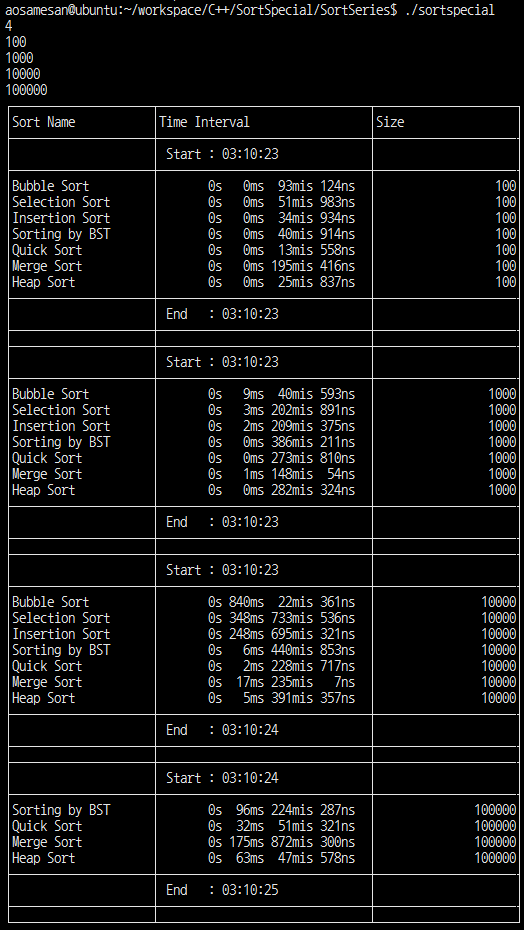
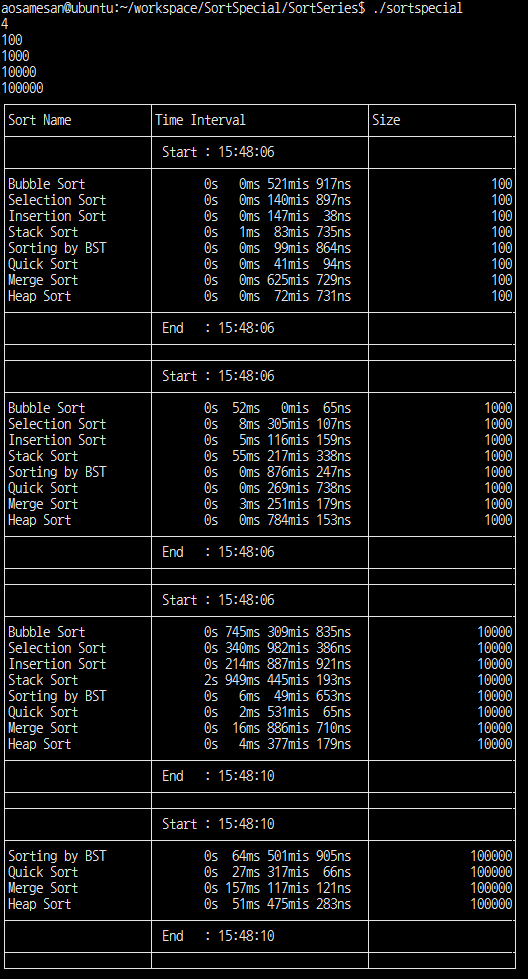
Add Stack Sort

Changed region(s): [[0.0, 0.0, 1.0, 0.9978]]

diff --git a/SortSeries/sort.h b/SortSeries/sort.h
@@ -6,6 +6,7 @@
 #include<chrono>
 #include<cstdlib>
 #include<cstring>
+#include<stack>
 #include"bst.h"
 #define BIGNUMBER 40000
 #define UNABLEQUAD 30000
@@ -242,6 +243,7 @@ namespace Sorts{
 		"Bubble Sort",
 		"Selection Sort",
 		"Insertion Sort",
+		"Stack Sort",
 		"Sorting by BST",
 		"Quick Sort",
 		"Merge Sort",
@@ -251,12 +253,13 @@ namespace Sorts{
 	const unsigned short BUBBLE_SORT = 0;
 	const unsigned short SELECTION_SORT = 1;
 	const unsigned short INSERTION_SORT = 2;
-	const unsigned short SORT_BY_BST = 3;
-	const unsigned short QUICK_SORT = 4;
-	const unsigned short MERGE_SORT = 5;
-	const unsigned short HEAP_SORT = 6;
+	const unsigned short STACK_SORT = 3;
+	const unsigned short SORT_BY_BST = 4;
+	const unsigned short QUICK_SORT = 5;
+	const unsigned short MERGE_SORT = 6;
+	const unsigned short HEAP_SORT = 7;
 
-	const unsigned int NUM_OF_SORTS = 7;
+	const unsigned int NUM_OF_SORTS = 8;
 
 
 	auto isSorted = [](vector<int>& vec) -> bool {
@@ -475,6 +478,40 @@ namespace Sorts{
 			siftDown(vec, 0, end);
 		}
 	};
+	auto stackSort = [](vector<int> vec, int size) -> bool{
+		stack<int> sortedStack;
+		stack<int> tempStack;
+		
+		for(int i = 0; i < size; i++){
+			if(sortedStack.empty()){
+				sortedStack.push(vec[i]);
+			} else {
+				int temp;
+				while(!sortedStack.empty()){
+					if((temp = sortedStack.top()) > vec[i]){
+						break;
+					} else {
+						tempStack.push(temp);
+						sortedStack.pop();
+					}
+				}
+				sortedStack.push(vec[i]);
+				while(!tempStack.empty()){
+					sortedStack.push(tempStack.top());
+					tempStack.pop();
+				}
+			}
+		}
+
+		int j = 0;
+		while(!sortedStack.empty()){
+			vec[(j++)] = sortedStack.top();
+			sortedStack.pop();
+		}
+
+		return isSorted(vec);
+	};
+
 
 	template<typename T>
 	long long Sorter(vector<int>& vec, T sortFunc){
@@ -529,7 +566,7 @@ namespace Sorts{
 			long long lap;
 
 			for (int i = 0; i < NUM_OF_SORTS; i++){
-				if (((i == BUBBLE_SORT || i == SELECTION_SORT || i == INSERTION_SORT) && ps.size <= UNABLEQUAD)
+				if (((i == BUBBLE_SORT || i == SELECTION_SORT || i == INSERTION_SORT || i == STACK_SORT) && ps.size <= UNABLEQUAD)
 					|| (i == SORT_BY_BST || i == QUICK_SORT || i == MERGE_SORT || i == HEAP_SORT)){
 					switch (i){
 					case BUBBLE_SORT:
@@ -552,6 +589,9 @@ namespace Sorts{
 						break;
 					case HEAP_SORT:
 						lap = Sorter(ps.arr, heapSort);
+						break;
+					case STACK_SORT:
+						lap = Sorter(ps.arr, stackSort);
 						break;
 					}
 

diff --git a/README.md b/README.md
@@ -48,7 +48,8 @@ g++ sort.h bst.h sortmain.cpp --std=c++11
 1. Bubble Sort
 2. Selection Sort
 3. Insertion Sort
-4. Quick Sort
-5. Sorting by *Binary Search Tree*
-6. Merge Sort
-7. Heap Sort
+4. Stack Sort	*NEW*
+5. Quick Sort
+6. Sorting by *Binary Search Tree*
+7. Merge Sort
+8. Heap Sort
